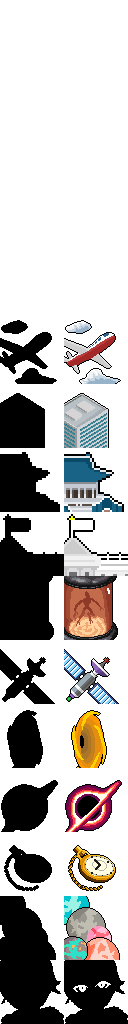
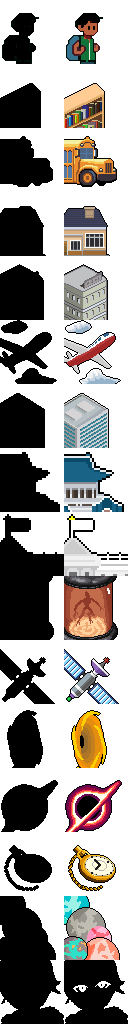
1010 1105

Changed region(s): [[0.5, 0.0, 0.9062, 0.3125], [0.0, 0.0, 0.4062, 0.3125]]

diff --git a/UniversityRescueCommittee/main.js b/UniversityRescueCommittee/main.js
@@ -894,31 +894,31 @@ function settingProductStateImg(i) { // 배경에 아이콘 삽입
                 appendStateImg.style.left = `${16 * j}px`
             }
             else if(i == 1) { // 학교 시설
-                appendStateImg.style.top = `${32}px`;
+                appendStateImg.style.top = `${40}px`;
                 appendStateImg.style.left = `${64 * j}px`
             }
             else if(i == 2) { // 교통 시설
                 const topRandom = Math.floor(Math.random() * 16);
                 appendStateImg.style.top = `${64 - topRandom}px`;
-                appendStateImg.style.left = `${60 * j}px`
+                appendStateImg.style.left = `${8 + 64 * j}px`
             }
             else if(i == 3) { // 주거 시설
                 appendStateImg.style.top = `${32}px`;
-                appendStateImg.style.left = `${80 * j}px`
+                appendStateImg.style.left = `${16 + 80 * j}px`
             }
             else if(i == 4) { // 은행
                 appendStateImg.style.top = `${32}px`;
-                appendStateImg.style.left = `${80 * j}px`
+                appendStateImg.style.left = `${16 + 80 * j}px`
             }
             else if(i == 5) { // 공항
                 appendStateImg.style.top = `${32 + Math.floor(Math.random() * 49) - 24}px`;
-                appendStateImg.style.left = `${16 + 64 * j}px`
+                appendStateImg.style.left = `${8 + 64 * j}px`
                 appendStateImg.style.backgroundPositionX = `${-64 * Math.floor(Math.random() * 4)}px`;
                 
             }
             else if(i == 6) { // 기업
                 appendStateImg.style.top = `${32}px`;
-                appendStateImg.style.left = `${80 * j}px`
+                appendStateImg.style.left = `${16 + 80 * j}px`
                 appendStateImg.style.backgroundPositionX = `${-64 * Math.floor(Math.random() * 3)}px`;
 
             }
@@ -1076,7 +1076,6 @@ function updatePageStats() { // 업데이트
             const value = arrProductUpgradePurchaseBool[i][j];
             const arr1 = Math.floor(value / 100);
             const arr2 = value % 100;
-            console.log(value + '/' + arr1 + '/' + arr2);
 
             const statsUpgradeIcon = document.createElement('div');
             statsUpgradeIcon.classList.add('statsUpgradeIcon');
@@ -1433,7 +1432,6 @@ function updateUpgradeMenuButton() {
 /* 
     증축
 */
-const tooltip = document.getElementById('productTooltip');
 let intervalsettingProductTooltip;
 function settingProduct() {
     console.log('setting product');
@@ -1485,6 +1483,7 @@ function settingProduct() {
         });
     }
 }
+const tooltip = document.getElementById('productTooltip');
 function settingProductTooltip(i) {
     // 선언
     const product = document.getElementById(`product_${i}`);
@@ -1496,11 +1495,17 @@ function settingProductTooltip(i) {
     // 만약 맨 아래에서 벗어났다면 | setTimeout으로 tooltip의 위치 갱신
     setTimeout(() => { if(tooltip.getBoundingClientRect().bottom > window.innerHeight) tooltip.style.top = `${window.innerHeight - tooltip.getBoundingClientRect().height - 10}px`; }, 1);
 
+    // 아이콘 공통
+    tooltip.querySelector('.icon').style.background = `url('img/icons_product.png')`;
+    tooltip.querySelector('.icon').style.backgroundPositionY = `${-64 * i}px`;
+
     if(arrProductUnlock[i] == true) { // 해금되었다면
+        // 아이콘
+        tooltip.querySelector('.icon').style.backgroundPositionX = `-64px`;
         // 이름
-        tooltip.querySelector('.name').textContent = translations[lang].arrProductName[i];
+        tooltip.querySelector('.name').innerHTML = translations[lang].arrProductName[i];
         // 설명
-        tooltip.querySelector('.description').textContent = translations[lang].productTooltipDescription[i];
+        tooltip.querySelector('.description').innerHTML = translations[lang].productTooltipDescription[i];
         tooltip.querySelector('#centerLine').classList.remove('disabled');
         
         // 태그
@@ -1521,7 +1526,6 @@ function settingProductTooltip(i) {
             addProductUpgradeIcon(i);
         } else tooltip.querySelector('#productTooltipUpgradeEnableBundle').classList.add('disabled');
     } else { // 해금 안 됐다면
-        tooltip.src = "/img/icon_lock.png";
         tooltip.querySelector('.name').innerHTML = '???';
         tooltip.querySelector('.price').innerHTML = '';
         tooltip.querySelector('.getCount').innerHTML = '';
@@ -1578,13 +1582,9 @@ function settingProductMenu(type) {
         if(type == 'icon') {
             const product = document.getElementById(`product_${i}`);
             product.querySelector('.icon').style.background = `url('img/icons_product.png')`;
-            if(arrProductUnlock[i] == false) {
-                product.querySelector('.icon').style.backgroundPositionX = `0px`;
-                product.querySelector('.icon').style.backgroundPositionY = `${-64 * i}px`;
-            } else {
-                product.querySelector('.icon').style.backgroundPositionX = `-64px`;
-                product.querySelector('.icon').style.backgroundPositionY = `${-64 * i}px`;
-            }
+            product.querySelector('.icon').style.backgroundPositionY = `${-64 * i}px`;
+            if(arrProductUnlock[i] == false) product.querySelector('.icon').style.backgroundPositionX = `0px`;
+            else product.querySelector('.icon').style.backgroundPositionX = `-64px`;
         }
         if(type == 'name') {
             if(arrProductUnlock[i] == false) product.querySelector('.name').innerHTML = '???';

diff --git a/UniversityRescueCommittee/style.css b/UniversityRescueCommittee/style.css
@@ -906,8 +906,6 @@ sectionRight
 	float: left;
 	width: 64px;
 	height: 64px;
-	border: #000 1px solid;
-	background: url("img/icon_lock.png") no-repeat;
 	background-size: cover;
 	margin-right: 8px;
 	margin-bottom: 4px;
